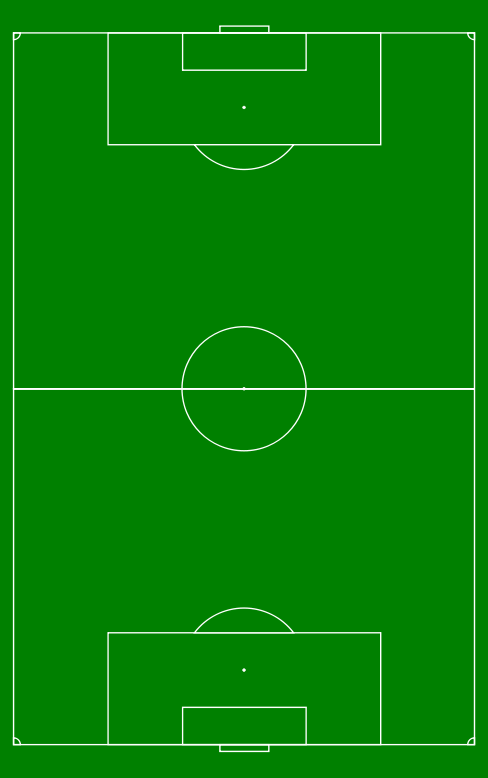
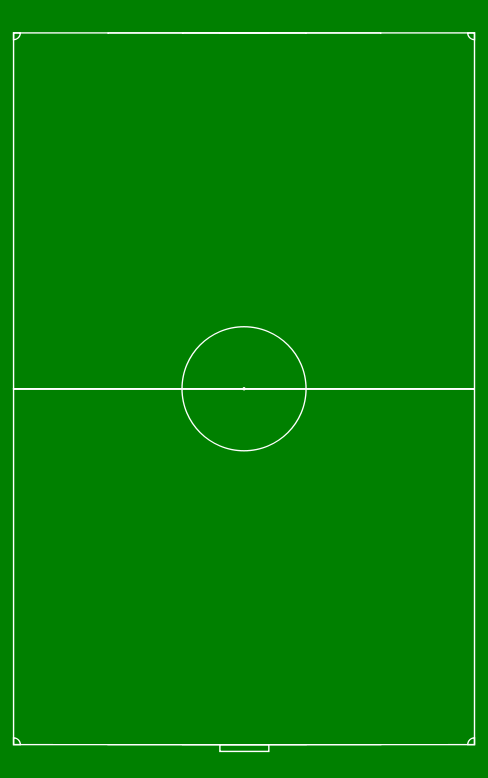
Remove the gates from the background soccer field

diff --git a/templates/contacts.html b/templates/contacts.html
@@ -1,16 +1,19 @@
 {% extends "base.html" %}
 {% load static %}
 
-{% block head-links %}<link rel="stylesheet" href="{% static 'css/about-organization-list.css' %}">{% endblock %}
+{% block head-links %}
+    <link rel="stylesheet" href="{% static 'css/about-organization-list.css' %}">{% endblock %}
 
 {% block main %}
     <main>
-        <h1>Контакты</h1>
-        <p>Полное наименование: ГОСУДАРСТВЕННОЕ БЮДЖЕТНОЕ УЧРЕЖДЕНИЕ ДОПОЛНИТЕЛЬНОГО ОБРАЗОВАНИЯ КОСТРОМСКОЙ ОБЛАСТИ
-            «СПОРТИВНАЯ ШКОЛА ИМЕНИ ВЫДАЮЩЕГОСЯ ЗЕМЛЯКА ГЕОРГИЯ АЛЕКСАНДРОВИЧА ЯРЦЕВА»</p>
-        <p>Краткое наименование: ГБУ ДО КО «СШ им. Г.А. Ярцева»</p>
-        <p>ИНН: 4401150265</p>
-        <p>КПП: 440101001</p>
-        <p>ОГРН: 1144401002602</p>
+        <div class="main-info">
+            <h1>Контакты</h1>
+            <p>Полное наименование: ГОСУДАРСТВЕННОЕ БЮДЖЕТНОЕ УЧРЕЖДЕНИЕ ДОПОЛНИТЕЛЬНОГО ОБРАЗОВАНИЯ КОСТРОМСКОЙ ОБЛАСТИ
+                «СПОРТИВНАЯ ШКОЛА ИМЕНИ ВЫДАЮЩЕГОСЯ ЗЕМЛЯКА ГЕОРГИЯ АЛЕКСАНДРОВИЧА ЯРЦЕВА»</p>
+            <p>Краткое наименование: ГБУ ДО КО «СШ им. Г.А. Ярцева»</p>
+            <p>ИНН: 4401150265</p>
+            <p>КПП: 440101001</p>
+            <p>ОГРН: 1144401002602</p>
+        </div>
     </main>
 {% endblock %}

diff --git a/templates/basic_information.html b/templates/basic_information.html
@@ -5,12 +5,14 @@
 
 {% block main %}
     <main>
-        <h1>Основные сведения о школе</h1>
-        <p>Полное наименование: ГОСУДАРСТВЕННОЕ БЮДЖЕТНОЕ УЧРЕЖДЕНИЕ ДОПОЛНИТЕЛЬНОГО ОБРАЗОВАНИЯ КОСТРОМСКОЙ ОБЛАСТИ
-            «СПОРТИВНАЯ ШКОЛА ИМЕНИ ВЫДАЮЩЕГОСЯ ЗЕМЛЯКА ГЕОРГИЯ АЛЕКСАНДРОВИЧА ЯРЦЕВА»</p>
-        <p>Краткое наименование: ГБУ ДО КО «СШ им. Г.А. Ярцева»</p>
-        <p>ИНН: 4401150265</p>
-        <p>КПП: 440101001</p>
-        <p>ОГРН: 1144401002602</p>
+        <div class="main-info">
+            <h1>Основные сведения о школе</h1>
+            <p>Полное наименование: ГОСУДАРСТВЕННОЕ БЮДЖЕТНОЕ УЧРЕЖДЕНИЕ ДОПОЛНИТЕЛЬНОГО ОБРАЗОВАНИЯ КОСТРОМСКОЙ ОБЛАСТИ
+                «СПОРТИВНАЯ ШКОЛА ИМЕНИ ВЫДАЮЩЕГОСЯ ЗЕМЛЯКА ГЕОРГИЯ АЛЕКСАНДРОВИЧА ЯРЦЕВА»</p>
+            <p>Краткое наименование: ГБУ ДО КО «СШ им. Г.А. Ярцева»</p>
+            <p>ИНН: 4401150265</p>
+            <p>КПП: 440101001</p>
+            <p>ОГРН: 1144401002602</p>
+        </div>
     </main>
 {% endblock %}

diff --git a/templates/financial_and_economic.html b/templates/financial_and_economic.html
@@ -1,11 +1,18 @@
 {% extends "base.html" %}
-
 {% load static %}
 
 {% block head-links %}<link rel="stylesheet" href="{% static 'css/about-organization-list.css' %}">{% endblock %}
 
 {% block main %}
     <main>
-        <h1>finance info page</h1>
+        <div class="main-info">
+            <h1>Основные сведения о школе</h1>
+            <p>Полное наименование: ГОСУДАРСТВЕННОЕ БЮДЖЕТНОЕ УЧРЕЖДЕНИЕ ДОПОЛНИТЕЛЬНОГО ОБРАЗОВАНИЯ КОСТРОМСКОЙ ОБЛАСТИ
+                «СПОРТИВНАЯ ШКОЛА ИМЕНИ ВЫДАЮЩЕГОСЯ ЗЕМЛЯКА ГЕОРГИЯ АЛЕКСАНДРОВИЧА ЯРЦЕВА»</p>
+            <p>Краткое наименование: ГБУ ДО КО «СШ им. Г.А. Ярцева»</p>
+            <p>ИНН: 4401150265</p>
+            <p>КПП: 440101001</p>
+            <p>ОГРН: 1144401002602</p>
+        </div>
     </main>
 {% endblock %}

diff --git a/templates/international_cooperation.html b/templates/international_cooperation.html
@@ -5,6 +5,14 @@
 
 {% block main %}
     <main>
-        <h1>international info page</h1>
+        <div class="main-info">
+            <h1>Основные сведения о школе</h1>
+            <p>Полное наименование: ГОСУДАРСТВЕННОЕ БЮДЖЕТНОЕ УЧРЕЖДЕНИЕ ДОПОЛНИТЕЛЬНОГО ОБРАЗОВАНИЯ КОСТРОМСКОЙ ОБЛАСТИ
+                «СПОРТИВНАЯ ШКОЛА ИМЕНИ ВЫДАЮЩЕГОСЯ ЗЕМЛЯКА ГЕОРГИЯ АЛЕКСАНДРОВИЧА ЯРЦЕВА»</p>
+            <p>Краткое наименование: ГБУ ДО КО «СШ им. Г.А. Ярцева»</p>
+            <p>ИНН: 4401150265</p>
+            <p>КПП: 440101001</p>
+            <p>ОГРН: 1144401002602</p>
+        </div>
     </main>
 {% endblock %}

diff --git a/templates/paid_services.html b/templates/paid_services.html
@@ -5,6 +5,14 @@
 
 {% block main %}
     <main>
-        <h1>paid services info page</h1>
+        <div class="main-info">
+            <h1>Основные сведения о школе</h1>
+            <p>Полное наименование: ГОСУДАРСТВЕННОЕ БЮДЖЕТНОЕ УЧРЕЖДЕНИЕ ДОПОЛНИТЕЛЬНОГО ОБРАЗОВАНИЯ КОСТРОМСКОЙ ОБЛАСТИ
+                «СПОРТИВНАЯ ШКОЛА ИМЕНИ ВЫДАЮЩЕГОСЯ ЗЕМЛЯКА ГЕОРГИЯ АЛЕКСАНДРОВИЧА ЯРЦЕВА»</p>
+            <p>Краткое наименование: ГБУ ДО КО «СШ им. Г.А. Ярцева»</p>
+            <p>ИНН: 4401150265</p>
+            <p>КПП: 440101001</p>
+            <p>ОГРН: 1144401002602</p>
+        </div>
     </main>
 {% endblock %}

diff --git a/templates/available_environment.html b/templates/available_environment.html
@@ -5,6 +5,14 @@
 
 {% block main %}
     <main>
-        <h1>available info page</h1>
+        <div class="main-info">
+            <h1>Основные сведения о школе</h1>
+            <p>Полное наименование: ГОСУДАРСТВЕННОЕ БЮДЖЕТНОЕ УЧРЕЖДЕНИЕ ДОПОЛНИТЕЛЬНОГО ОБРАЗОВАНИЯ КОСТРОМСКОЙ ОБЛАСТИ
+                «СПОРТИВНАЯ ШКОЛА ИМЕНИ ВЫДАЮЩЕГОСЯ ЗЕМЛЯКА ГЕОРГИЯ АЛЕКСАНДРОВИЧА ЯРЦЕВА»</p>
+            <p>Краткое наименование: ГБУ ДО КО «СШ им. Г.А. Ярцева»</p>
+            <p>ИНН: 4401150265</p>
+            <p>КПП: 440101001</p>
+            <p>ОГРН: 1144401002602</p>
+        </div>
     </main>
 {% endblock %}

diff --git a/templates/education.html b/templates/education.html
@@ -5,6 +5,14 @@
 
 {% block main %}
     <main>
-        <h1>education info page</h1>
+        <div class="main-info">
+            <h1>Основные сведения о школе</h1>
+            <p>Полное наименование: ГОСУДАРСТВЕННОЕ БЮДЖЕТНОЕ УЧРЕЖДЕНИЕ ДОПОЛНИТЕЛЬНОГО ОБРАЗОВАНИЯ КОСТРОМСКОЙ ОБЛАСТИ
+                «СПОРТИВНАЯ ШКОЛА ИМЕНИ ВЫДАЮЩЕГОСЯ ЗЕМЛЯКА ГЕОРГИЯ АЛЕКСАНДРОВИЧА ЯРЦЕВА»</p>
+            <p>Краткое наименование: ГБУ ДО КО «СШ им. Г.А. Ярцева»</p>
+            <p>ИНН: 4401150265</p>
+            <p>КПП: 440101001</p>
+            <p>ОГРН: 1144401002602</p>
+        </div>
     </main>
 {% endblock %}

diff --git a/templates/support_and_equipment.html b/templates/support_and_equipment.html
@@ -5,6 +5,14 @@
 
 {% block main %}
     <main>
-        <h1>support info page</h1>
+        <div class="main-info">
+            <h1>Основные сведения о школе</h1>
+            <p>Полное наименование: ГОСУДАРСТВЕННОЕ БЮДЖЕТНОЕ УЧРЕЖДЕНИЕ ДОПОЛНИТЕЛЬНОГО ОБРАЗОВАНИЯ КОСТРОМСКОЙ ОБЛАСТИ
+                «СПОРТИВНАЯ ШКОЛА ИМЕНИ ВЫДАЮЩЕГОСЯ ЗЕМЛЯКА ГЕОРГИЯ АЛЕКСАНДРОВИЧА ЯРЦЕВА»</p>
+            <p>Краткое наименование: ГБУ ДО КО «СШ им. Г.А. Ярцева»</p>
+            <p>ИНН: 4401150265</p>
+            <p>КПП: 440101001</p>
+            <p>ОГРН: 1144401002602</p>
+        </div>
     </main>
 {% endblock %}

diff --git a/templates/vacant_seats.html b/templates/vacant_seats.html
@@ -5,6 +5,14 @@
 
 {% block main %}
     <main>
-        <h1>vacant info page</h1>
+        <div class="main-info">
+            <h1>Основные сведения о школе</h1>
+            <p>Полное наименование: ГОСУДАРСТВЕННОЕ БЮДЖЕТНОЕ УЧРЕЖДЕНИЕ ДОПОЛНИТЕЛЬНОГО ОБРАЗОВАНИЯ КОСТРОМСКОЙ ОБЛАСТИ
+                «СПОРТИВНАЯ ШКОЛА ИМЕНИ ВЫДАЮЩЕГОСЯ ЗЕМЛЯКА ГЕОРГИЯ АЛЕКСАНДРОВИЧА ЯРЦЕВА»</p>
+            <p>Краткое наименование: ГБУ ДО КО «СШ им. Г.А. Ярцева»</p>
+            <p>ИНН: 4401150265</p>
+            <p>КПП: 440101001</p>
+            <p>ОГРН: 1144401002602</p>
+        </div>
     </main>
 {% endblock %}

diff --git a/templates/pedagogical_staff.html b/templates/pedagogical_staff.html
@@ -5,6 +5,14 @@
 
 {% block main %}
     <main>
-        <h1>staff info page</h1>
+        <div class="main-info">
+            <h1>Основные сведения о школе</h1>
+            <p>Полное наименование: ГОСУДАРСТВЕННОЕ БЮДЖЕТНОЕ УЧРЕЖДЕНИЕ ДОПОЛНИТЕЛЬНОГО ОБРАЗОВАНИЯ КОСТРОМСКОЙ ОБЛАСТИ
+                «СПОРТИВНАЯ ШКОЛА ИМЕНИ ВЫДАЮЩЕГОСЯ ЗЕМЛЯКА ГЕОРГИЯ АЛЕКСАНДРОВИЧА ЯРЦЕВА»</p>
+            <p>Краткое наименование: ГБУ ДО КО «СШ им. Г.А. Ярцева»</p>
+            <p>ИНН: 4401150265</p>
+            <p>КПП: 440101001</p>
+            <p>ОГРН: 1144401002602</p>
+        </div>
     </main>
 {% endblock %}

diff --git a/templates/documents.html b/templates/documents.html
@@ -5,6 +5,14 @@
 
 {% block main %}
     <main>
-        <h1>docs info page</h1>
+        <div class="main-info">
+            <h1>Основные сведения о школе</h1>
+            <p>Полное наименование: ГОСУДАРСТВЕННОЕ БЮДЖЕТНОЕ УЧРЕЖДЕНИЕ ДОПОЛНИТЕЛЬНОГО ОБРАЗОВАНИЯ КОСТРОМСКОЙ ОБЛАСТИ
+                «СПОРТИВНАЯ ШКОЛА ИМЕНИ ВЫДАЮЩЕГОСЯ ЗЕМЛЯКА ГЕОРГИЯ АЛЕКСАНДРОВИЧА ЯРЦЕВА»</p>
+            <p>Краткое наименование: ГБУ ДО КО «СШ им. Г.А. Ярцева»</p>
+            <p>ИНН: 4401150265</p>
+            <p>КПП: 440101001</p>
+            <p>ОГРН: 1144401002602</p>
+        </div>
     </main>
 {% endblock %}

diff --git a/templates/structure_and_management.html b/templates/structure_and_management.html
@@ -5,6 +5,14 @@
 
 {% block main %}
     <main>
-        <h1>structure page</h1>
+        <div class="main-info">
+            <h1>Основные сведения о школе</h1>
+            <p>Полное наименование: ГОСУДАРСТВЕННОЕ БЮДЖЕТНОЕ УЧРЕЖДЕНИЕ ДОПОЛНИТЕЛЬНОГО ОБРАЗОВАНИЯ КОСТРОМСКОЙ ОБЛАСТИ
+                «СПОРТИВНАЯ ШКОЛА ИМЕНИ ВЫДАЮЩЕГОСЯ ЗЕМЛЯКА ГЕОРГИЯ АЛЕКСАНДРОВИЧА ЯРЦЕВА»</p>
+            <p>Краткое наименование: ГБУ ДО КО «СШ им. Г.А. Ярцева»</p>
+            <p>ИНН: 4401150265</p>
+            <p>КПП: 440101001</p>
+            <p>ОГРН: 1144401002602</p>
+        </div>
     </main>
 {% endblock %}
